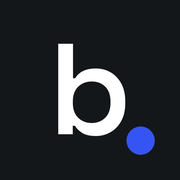
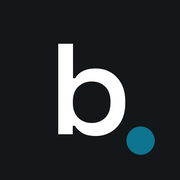
Swap blue and violet for cyan and purple
Blue #3654f4 and violet #7c3aed read as too similar. Tech is now cyan
#0e7490 and websites purple #9d27b0; both stay AA as small text. Favicon
dot and og-image follow the new cyan.

Changed region(s): [[0.6944, 0.6944, 0.8611, 0.8611]]

diff --git a/assets/css/styles.css b/assets/css/styles.css
@@ -31,12 +31,12 @@
   --shadow: 0 8px 24px rgb(20 23 26 / 0.08);
 
   /* One colour per service; cards, hero answers and form pages share them */
-  --c-tech: #3654f4;
-  --c-tech-dark: #2542c9;
+  --c-tech: #0e7490;
+  --c-tech-dark: #155e75;
   --c-install: #a85a09;
   --c-install-dark: #8a4907;
-  --c-web: #7c3aed;
-  --c-web-dark: #6d28d9;
+  --c-web: #9d27b0;
+  --c-web-dark: #7b1fa2;
   --c-else: #15803d;
   --c-else-dark: #166534;
 
